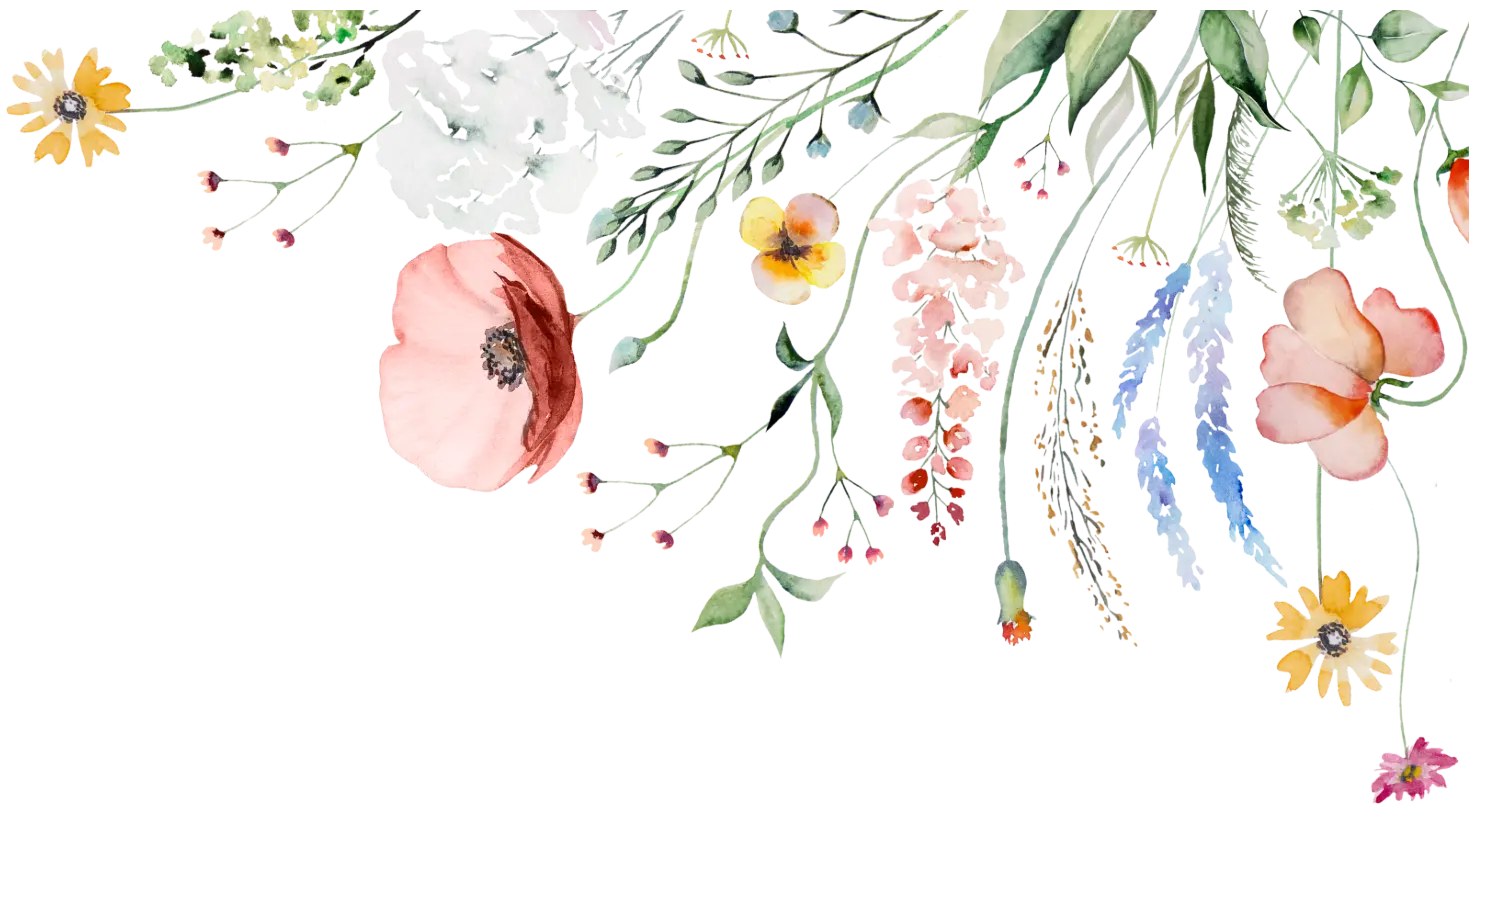
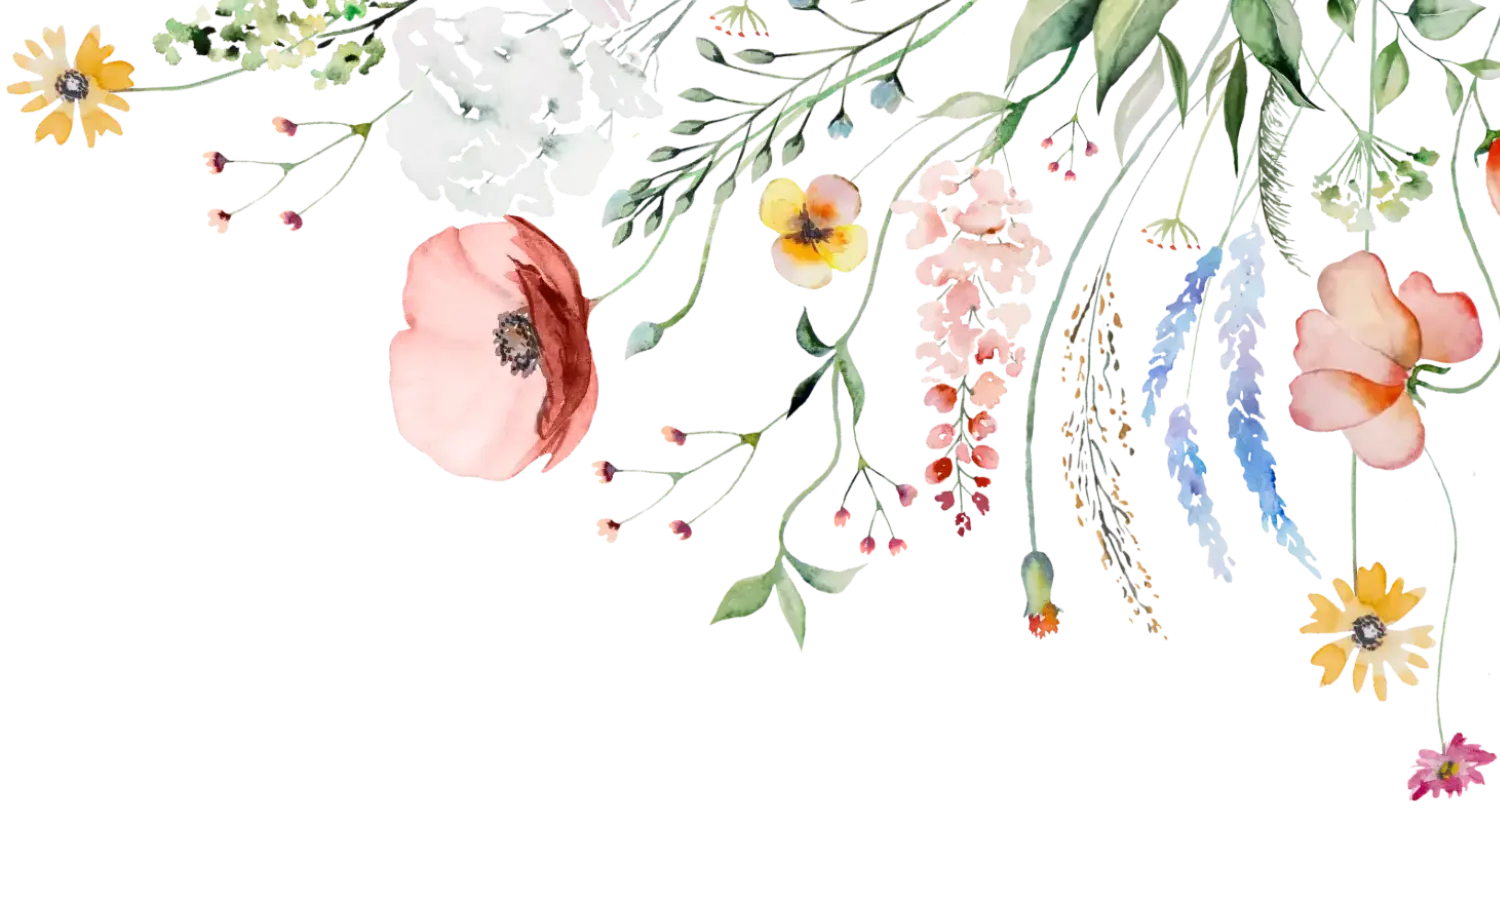
Polished it up
there's actually a slight chance this is my last push

Changed region(s): [[0.0, 0.0, 1.0, 0.7778], [0.8893, 0.8089, 1.0, 0.9022]]

diff --git a/style.css b/style.css
@@ -320,6 +320,44 @@ body{
     box-shadow: 0 6px 12px rgba(0,0,0,0.3);
 }
 
+.hero-rsvp-button {
+    display: inline-block;
+    margin-top: 24px;
+    padding: 14px 52px;
+    background: rgba(143, 175, 143, 0.75);
+    color: white;
+    text-decoration: none;
+    border-radius: 999px;
+    font: 600 1rem "Montserrat", sans-serif;
+    letter-spacing: 2.5px;
+    text-transform: uppercase;
+    border: 2px solid rgba(255, 255, 255, 0.6);
+    backdrop-filter: blur(6px);
+    box-shadow: 0 4px 18px rgba(0, 0, 0, 0.22);
+    transition: background 0.3s, transform 0.3s, box-shadow 0.3s;
+}
+
+.hero-rsvp-button:hover {
+    background: rgba(107, 143, 107, 0.9);
+    transform: translateY(-3px);
+    box-shadow: 0 8px 24px rgba(0, 0, 0, 0.3);
+}
+
+/* Offset anchored sections so fixed nav doesn't cover titles */
+#when-where,
+#where-to-stay,
+#gallery {
+    scroll-margin-top: 4rem;
+}
+
+@media screen and (min-width: 1150px) {
+    #when-where,
+    #where-to-stay,
+    #gallery {
+        scroll-margin-top: 5.5rem;
+    }
+}
+
 
 .content{
     padding:60px 20px;
@@ -334,7 +372,7 @@ body{
 }
 
 .bride-groom {
-    padding: 60px 40px;
+    padding: 110px 40px 60px;
     display: flex;
     flex-wrap: wrap;
     justify-content: center;
@@ -348,6 +386,9 @@ body{
 .flower {
     position: absolute;
     width: 420px;
+    height: 252px;
+    object-fit: contain;
+    object-position: top;
     z-index: 0;
     pointer-events: none;
     opacity: 0.95;
@@ -593,7 +634,7 @@ body{
     gap: 10px;
     font-size: 16px;
     margin: 8px 0;
-    color: #4b5d4b;
+    color: #2c2c2c;
 }
 
 .event-details i {
@@ -713,10 +754,19 @@ footer{
 }
 
 .registry-content {
-    padding: 0 20px 60px;
+    padding: 50px 20px 60px;
     text-align: center;
     max-width: 1200px;
     margin: 0 auto;
+}
+
+.registry-buttons {
+    display: flex;
+    justify-content: center;
+    align-items: center;
+    gap: 20px;
+    flex-wrap: wrap;
+    margin-top: 10px;
 }
 
 .buttons {
@@ -752,12 +802,8 @@ footer{
     background: #6DB3F2;
 }
 
-.cashapp {
-    background: #7DD87D;
-}
-
-.paypal {
-    background: #1A3D7C;
+.amazon {
+    background: #FF9900;
 }
 
 .btn:hover {

diff --git a/registry.html b/registry.html
@@ -4,7 +4,7 @@
 <meta charset="UTF-8">
 <meta name="viewport" content="width=device-width, initial-scale=1.0">
 <title>Registry - K + T Wedding</title>
-<link rel="stylesheet" href="style.css?v=20260309-1">
+<link rel="stylesheet" href="style.css?v=20260517-1">
 <link href="https://fonts.googleapis.com/css2?family=Dancing+Script&display=swap" rel="stylesheet">
 <link href="https://fonts.googleapis.com/css2?family=Montserrat:wght@400;500;600;700&display=swap" rel="stylesheet">
 <link rel="stylesheet" href="https://cdnjs.cloudflare.com/ajax/libs/remixicon/4.6.0/remixicon.min.css">
@@ -45,19 +45,13 @@
 </section>
 
 <section class="registry-content">
-    <div class="buttons">
-        <a href="#" class="btn venmo">Venmo</a>
-        <a href="#" class="btn cashapp">Cash App</a>
-        <a href="#" class="btn paypal">PayPal</a>
-    </div>
     <p class="registry-text">
-        We're just so happy to have you there with us! If you were thinking of getting us a gift,
-         we have a traditional registry at the link below. If you'd rather keep it simple, we also
-          have a honeymoon fund! You can give us cash towards our honeymoon at the reception. 
-              We'll have a cash box for checks and cash to avoid extra fees, 
-          or for those who prefer digital, you can also use the links above.
+        Your presence at our wedding is truly the greatest gift, and we are so grateful you'll be there to celebrate with us! If you'd like to do a little something extra, we have an Amazon registry below. We'd also love any contributions to our honeymoon fund, so feel free to bring cash or a check to the reception, or send a gift digitally through Venmo.
     </p>
-    <a href="https://www.amazon.com/wedding/guest-view/3LXJ2TBAVHQXZ" class="amazon-btn" target="_blank">Registry Gifts Amazon</a>
+    <div class="registry-buttons">
+        <a href="https://www.amazon.com/wedding/guest-view/3LXJ2TBAVHQXZ" class="btn amazon" target="_blank">Registry Gifts Amazon</a>
+        <a href="https://venmo.com/u/Karlee-Mayer" class="btn venmo" target="_blank">Venmo</a>
+    </div>
 </section>
 
 <footer>

diff --git a/index.html b/index.html
@@ -4,7 +4,7 @@
 <meta charset="UTF-8">
 <meta name="viewport" content="width=device-width, initial-scale=1.0">
 <title>K + T Wedding</title>
-<link rel="stylesheet" href="style.css?v=20260309-1">
+<link rel="stylesheet" href="style.css?v=20260517-1">
 <link href="https://fonts.googleapis.com/css2?family=Dancing+Script&display=swap" rel="stylesheet">
 <link href="https://fonts.googleapis.com/css2?family=Montserrat:wght@400;500;600;700&display=swap" rel="stylesheet">
 <link rel="stylesheet" href="https://cdnjs.cloudflare.com/ajax/libs/remixicon/4.6.0/remixicon.min.css">
@@ -43,6 +43,7 @@
     <div class="hero-text">
         <h1>Save The Date</h1>
         <h2>August 8, 2026</h2>
+        <a href="rsvp.html" class="hero-rsvp-button">RSVP</a>
     </div>
 </header>
 
@@ -50,11 +51,11 @@
     <img src="flower/FLower1.webp" alt="" class="flower flower--left" aria-hidden="true">
     <img src="flower/Flower2.webp" alt="" class="flower flower--right" aria-hidden="true">
     <div class="person">
-        <img src="karlee.webp" alt="Karlee Mayer" width="220" height="280" loading="lazy">
+        <img src="bride.webp" alt="Karlee Mayer" width="220" height="280" loading="lazy">
         <div class="person-text">
             <h3>Karlee Mayer</h3>
             <p class="subtext">Daughter of Anthony and Dena Mayer</p>
-            <p>Karlee is passionate about [short bio placeholder]. She loves spending time with family and creating lasting memories.</p>
+            <p>Karlee loves Tate because he's literally the best at everything. His cooking is far superior to hers and he's the best fisherman she's ever known. She loves Tate and has not read this yet.</p>
         </div>
     </div>
     <div class="person">
@@ -62,7 +63,7 @@
         <div class="person-text">
             <h3>Tate Besteman</h3>
             <p class="subtext">Youngest son of Doug and Jill Besteman</p>
-            <p>Tate enjoys [short bio placeholder]. He's excited to start this new chapter with Karlee and build a future together.</p>
+            <p>Tate recently graduated from CMU and couldn't be more excited for what's next. Karlee brings so much life to everything around her and he can't wait to start this next chapter with her.</p>
         </div>
     </div>
 </section>